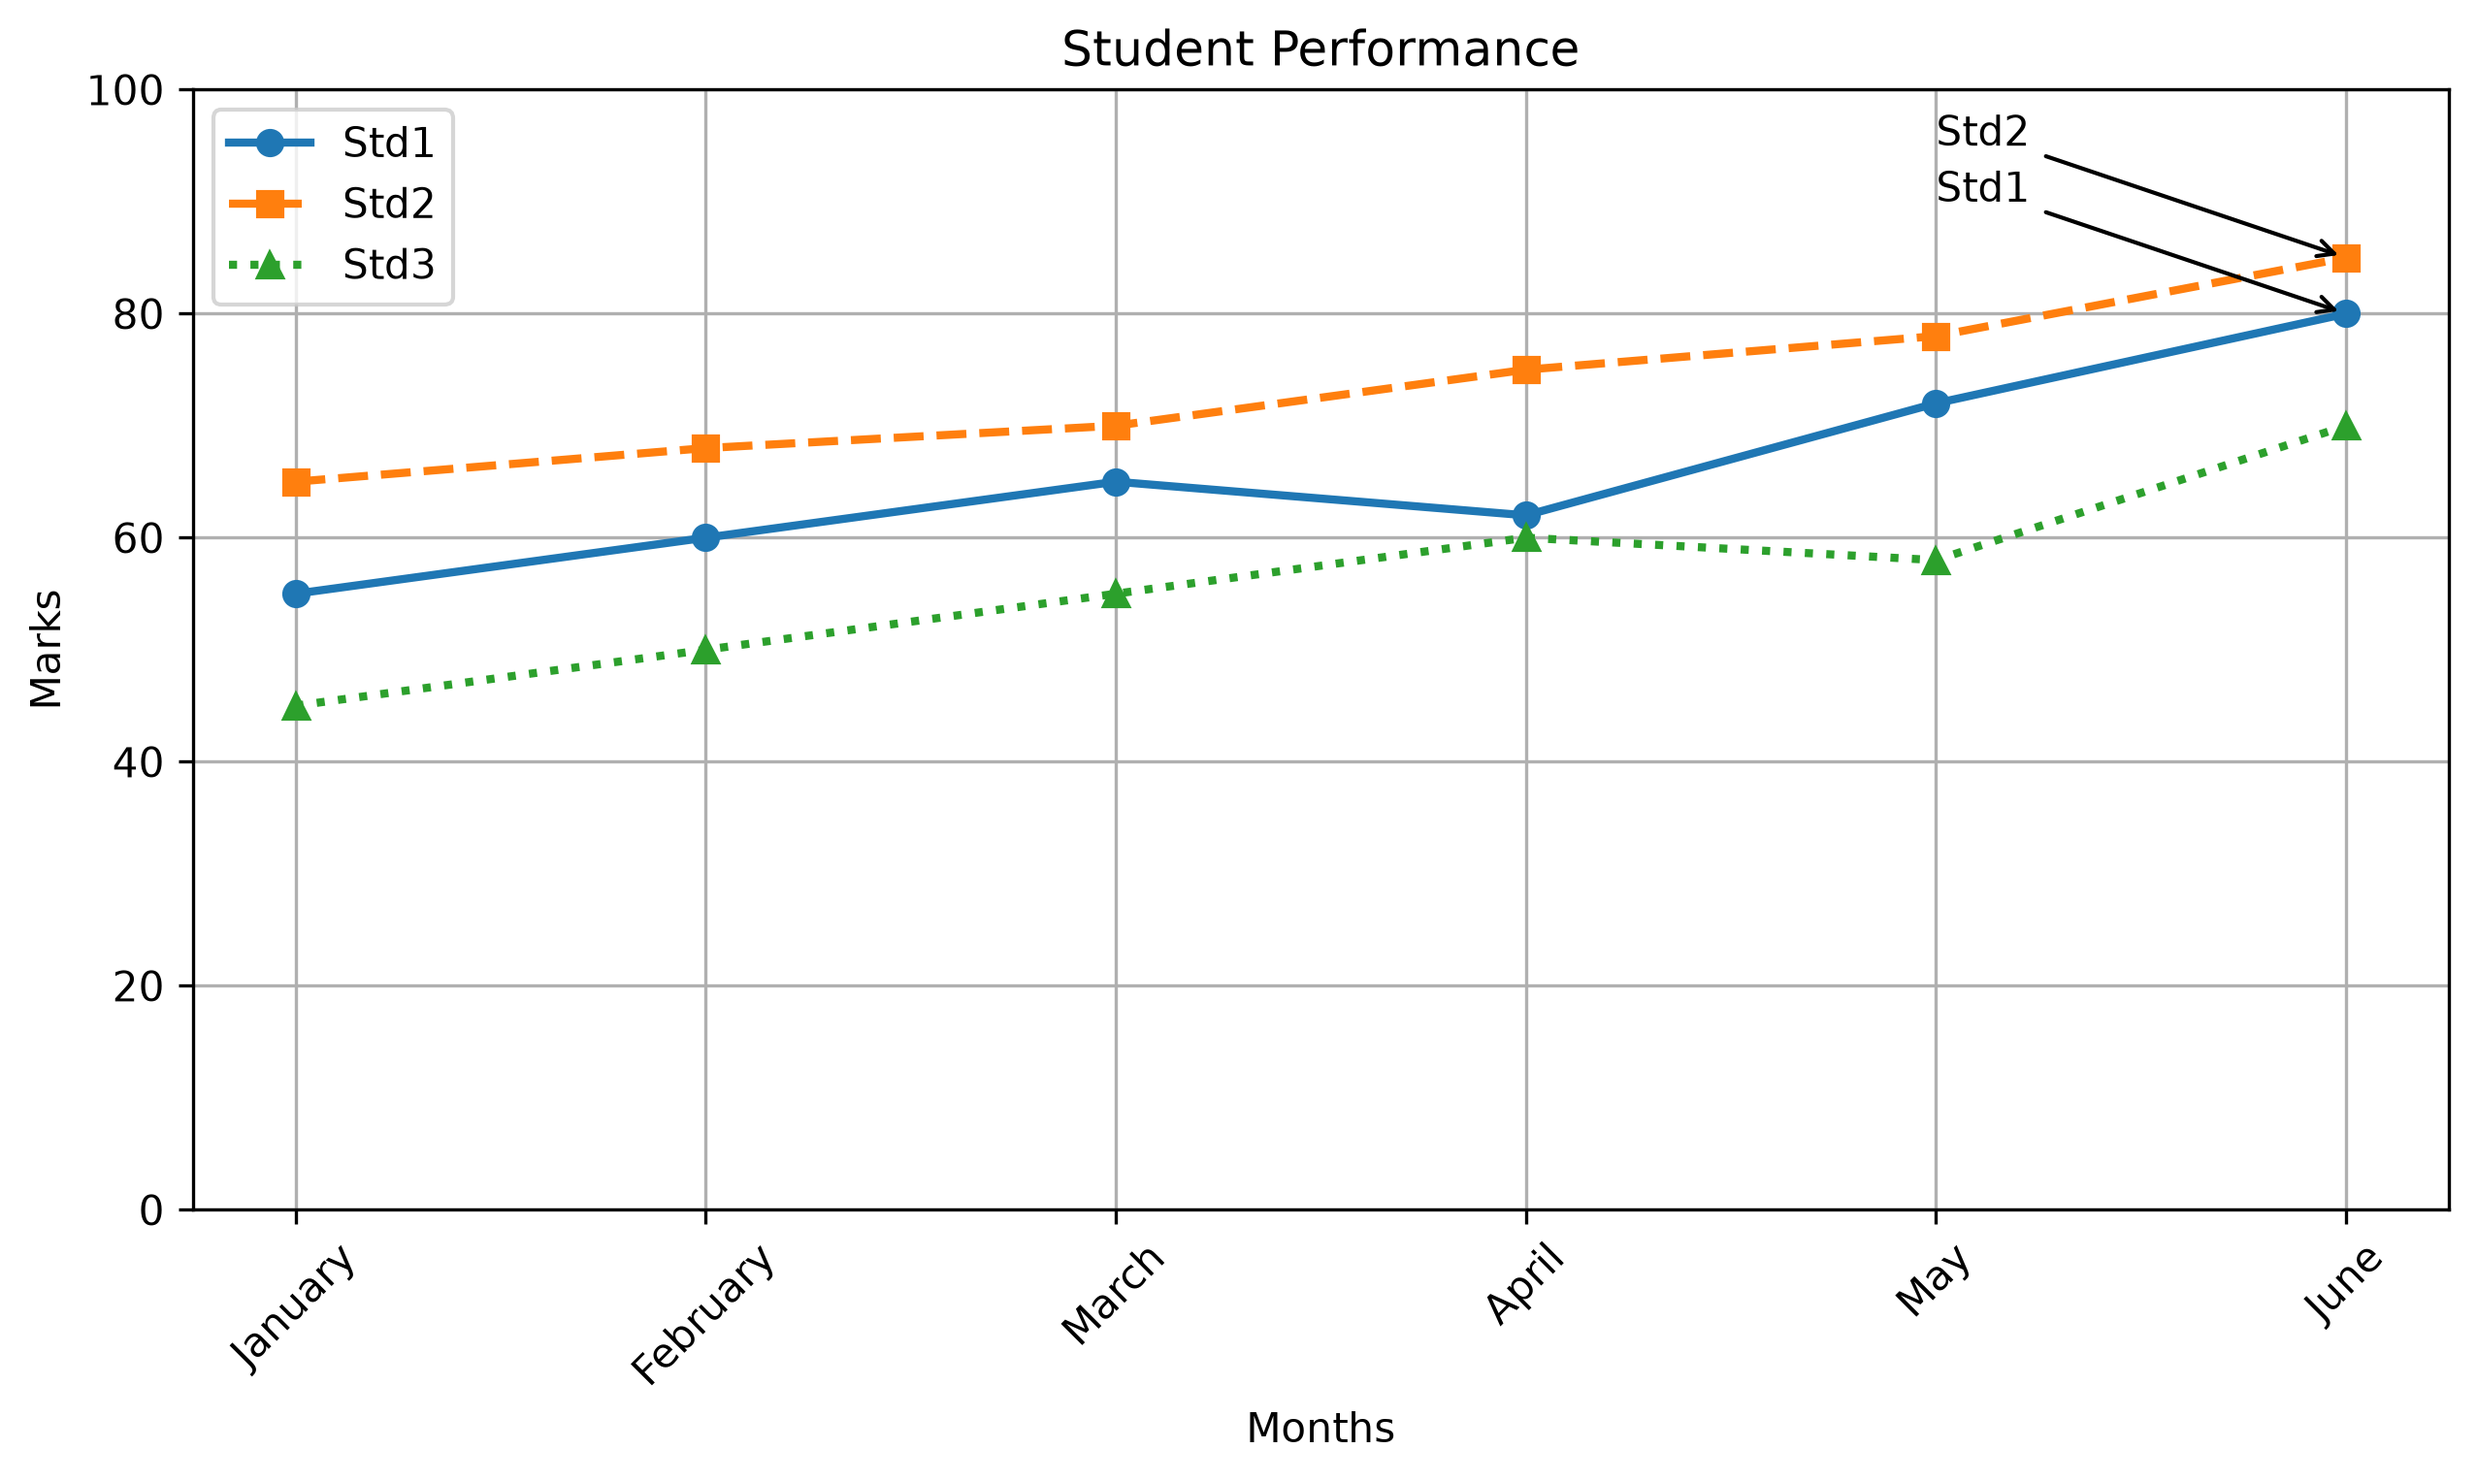
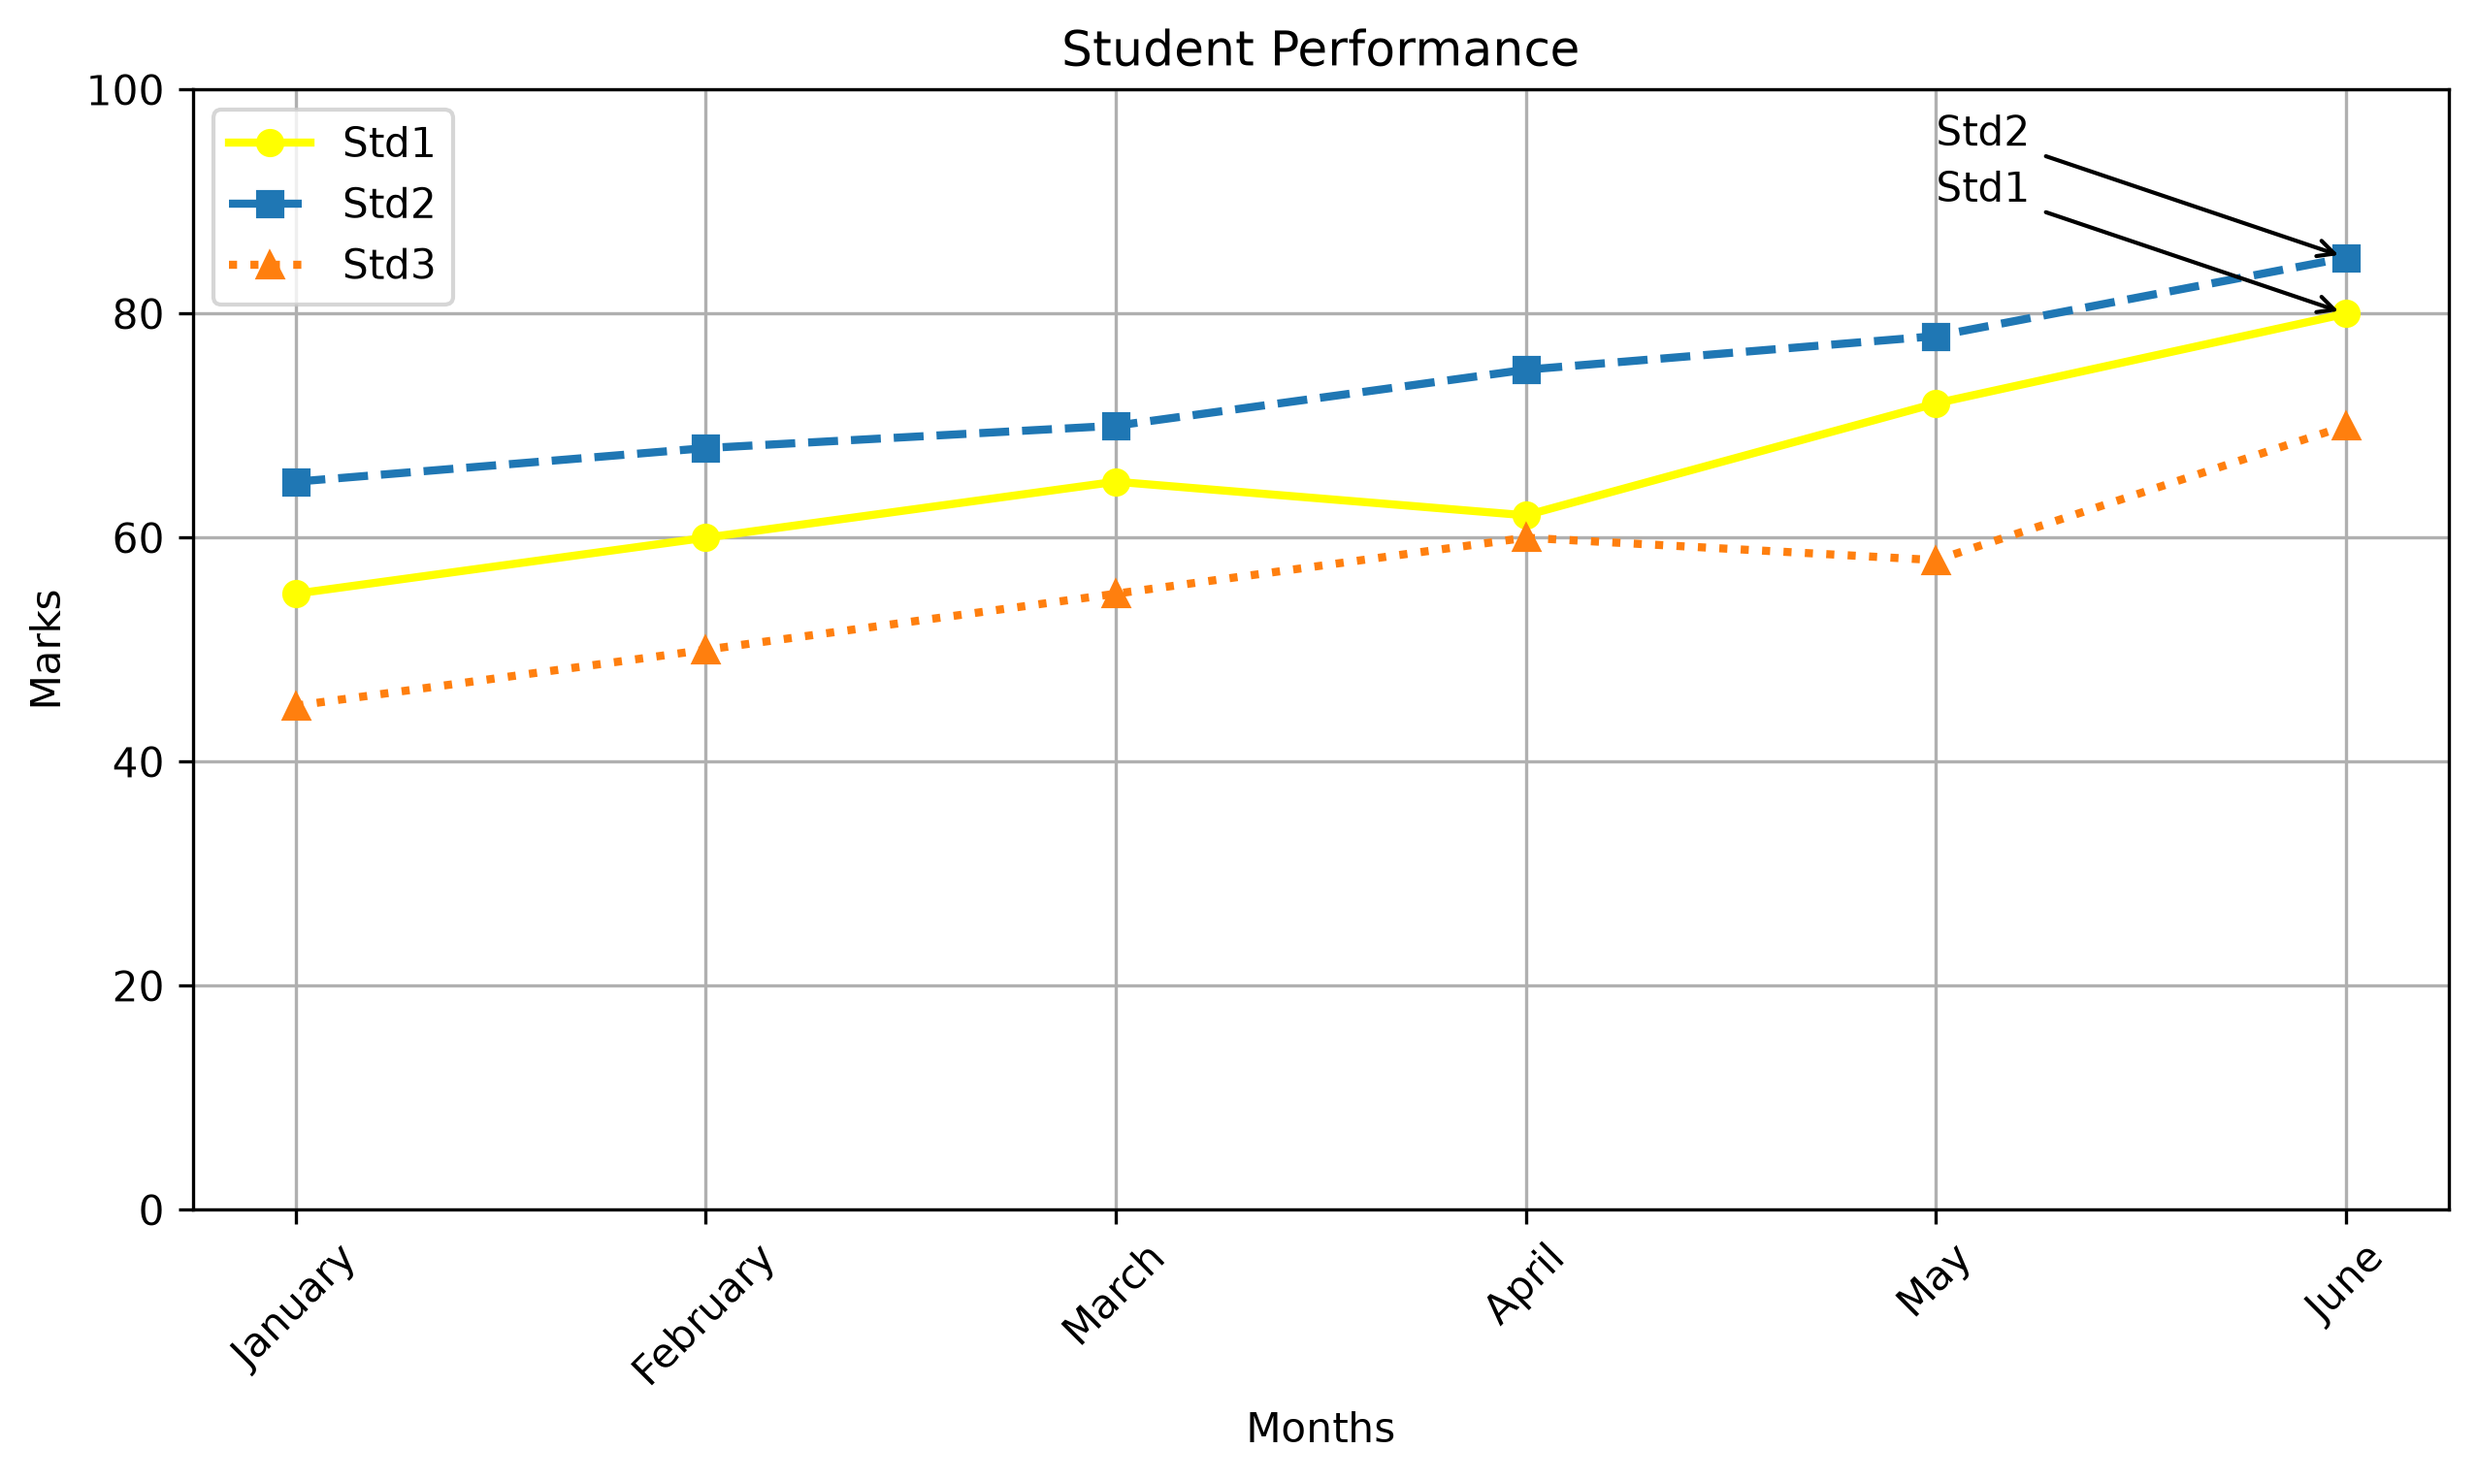
code

diff --git a/10-graphs.py b/10-graphs.py
@@ -14,27 +14,81 @@
     import matplotlib.pyplot as plt
 """
 # Line Plot
+# import matplotlib.pyplot as plt
+# months = ["January","February","March","April","May","June"]
+# std1 = [55,60,65,62,72,80]
+# std2 = [65,68,70,75,78,85]
+# std3 = [45,50,55,60,58,70]
+# plt.figure(figsize=(10,5))
+# plt.plot(months,std1,marker="o",linestyle="-",linewidth=2,label="Std1",color="yellow")
+# plt.plot(months,std2,marker="s",linestyle="--",linewidth=2,label="Std2")
+# plt.plot(months,std3,marker="^",linestyle=":",linewidth=2,label="Std3")
+# plt.xlabel("Months")
+# plt.ylabel("Marks")
+# plt.title("Student Performance")
+# plt.xticks(rotation=45)
+# plt.ylim(0,100)
+# plt.grid()
+# plt.legend()
+# plt.annotate( "Std1",
+#               xy=("June",80),
+#               xytext=("May",90),
+#               arrowprops=dict(arrowstyle="->") )
+
+# plt.annotate( "Std2",
+#               xy=("June",85),
+#               xytext=("May",95),
+#               arrowprops=dict(arrowstyle="->") )
+
+
+# plt.savefig("line.png",dpi=300,bbox_inches="tight")
+
+# plt.show()
+
+# Bar Chart
 import matplotlib.pyplot as plt
+import numpy as np
 
-months = ["January","February","March","April","May","June"]
+students = ["Std1","Std2","Std3"]
 
-std1 = [55,60,65,62,72,80]
-std2 = [65,68,70,75,78,85]
-std3 = [45,50,55,60,58,70]
+python_marks = [85,90,70]
+java_marks = [78,85,72]
+sql_marks= [82,88,75]
+react_marks = [80,92,68]
 
-plt.figure(figsize=(10,5))
+x = np.arange(len(students)) # [0,1,2]
 
-plt.plot(months,std1,marker="o",linestyle="-",linewidth=2,label="Std1")
-plt.plot(months,std2,marker="s",linestyle="--",linewidth=2,label="Std2")
-plt.plot(months,std3,marker="^",linestyle=":",linewidth=2,label="Std3")
+width = 0.2
 
-plt.xlabel("Months")
+plt.figure(figsize=(12,6))
+
+plt.bar(x - 1.5 * width,        # [0,1,2] - 0.3 = [-0.3,0.7,1.7]
+        python_marks,
+        width,
+        label="Python")
+
+plt.bar(x - 0.5 * width,        # [0,1,2] - 0.1 = [-0.1,0.9,1.9]
+        java_marks,
+        width,
+        label="java")
+
+plt.bar(x + 0.5 * width,
+        sql_marks,
+        width,
+        label="sql")
+
+plt.bar(x + 1.5 * width,
+        react_marks,
+        width,
+        label="react")
+
+plt.xticks(x,students)
+
+plt.xlabel("Students")
 
 plt.ylabel("Marks")
 
-plt.title("Student Performance")
-
-plt.xticks(rotation=45)
+plt.title("Subject Wise Bar Chart")
 
 plt.ylim(0,100)
 
@@ -42,20 +96,4 @@ plt.grid()
 
 plt.legend()
 
-plt.annotate( "Std1",
-              xy=("June",80),
-              xytext=("May",90),
-              arrowprops=dict(arrowstyle="->") )
-
-plt.annotate( "Std2",
-              xy=("June",85),
-              xytext=("May",95),
-              arrowprops=dict(arrowstyle="->") )
-
-
-plt.savefig("line.png",dpi=300,bbox_inches="tight")
-
-# plt.show()
-
-
-
+plt.show()
